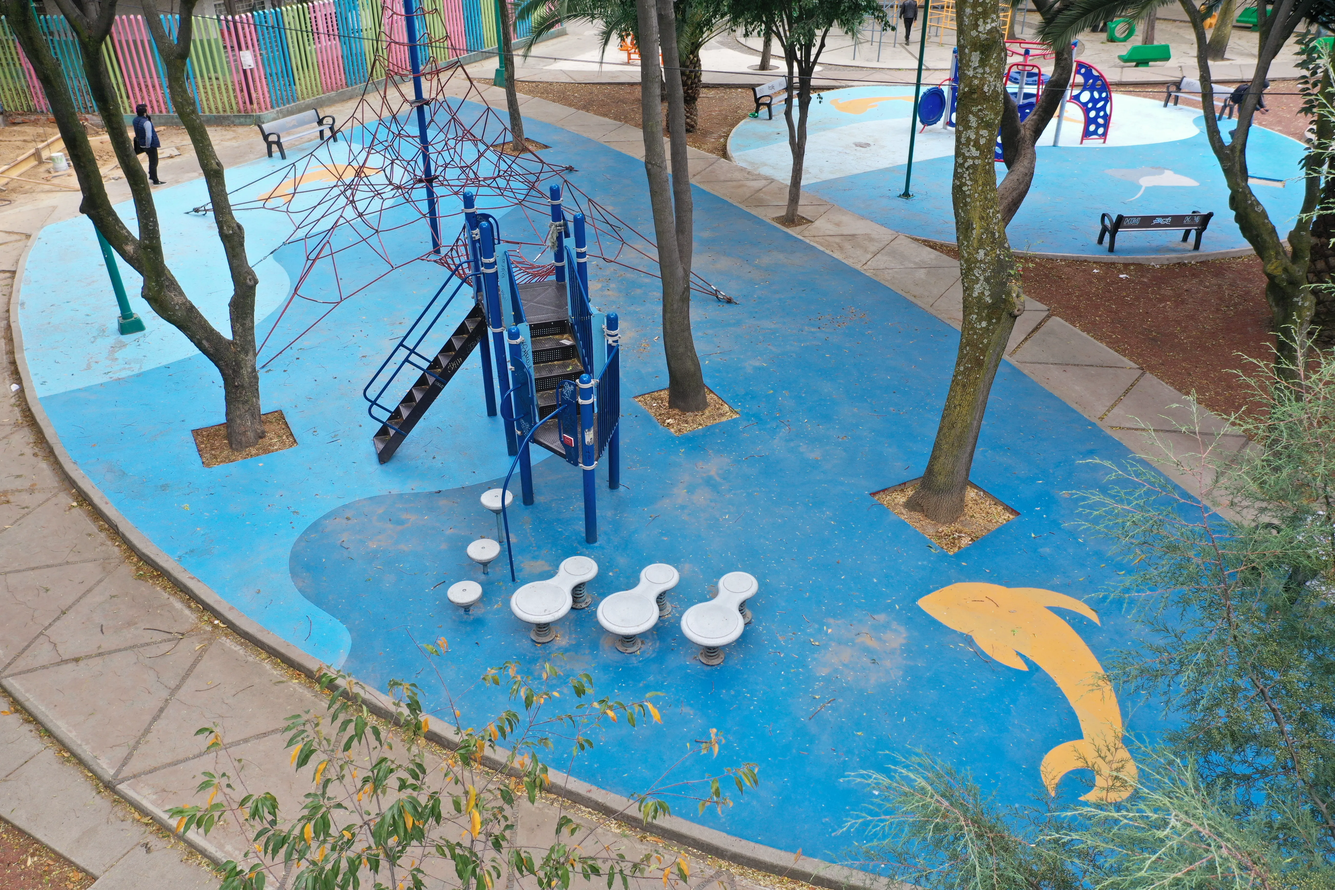
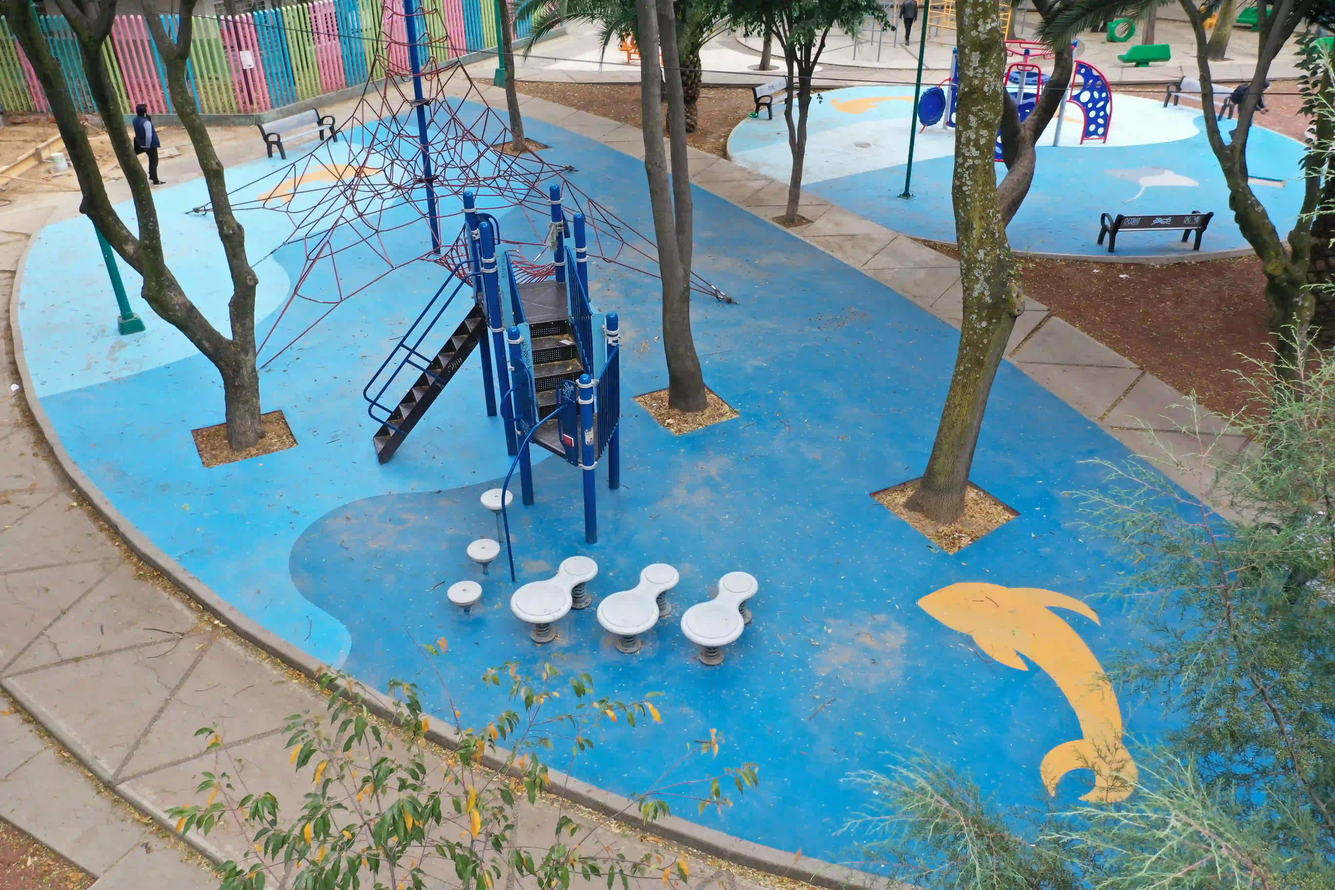
Actualización

diff --git a/index.html b/index.html
@@ -184,7 +184,7 @@
         </div>
 
         <div class="proyecto">
-                <img src="assets/parque-salesiano.jpg">
+                <img src="assets/parque-salesiano.webp">
 
                 <div class="imagenes-extra">
                     <img src="assets/salesiano1.webp" loading="lazy">
@@ -308,8 +308,5 @@
 <script src="js/script.js">
 
 </script>
-<div id="visor-imagen">
-    <img id="imagen-grande">
-</div>
 </body>
 </html>
